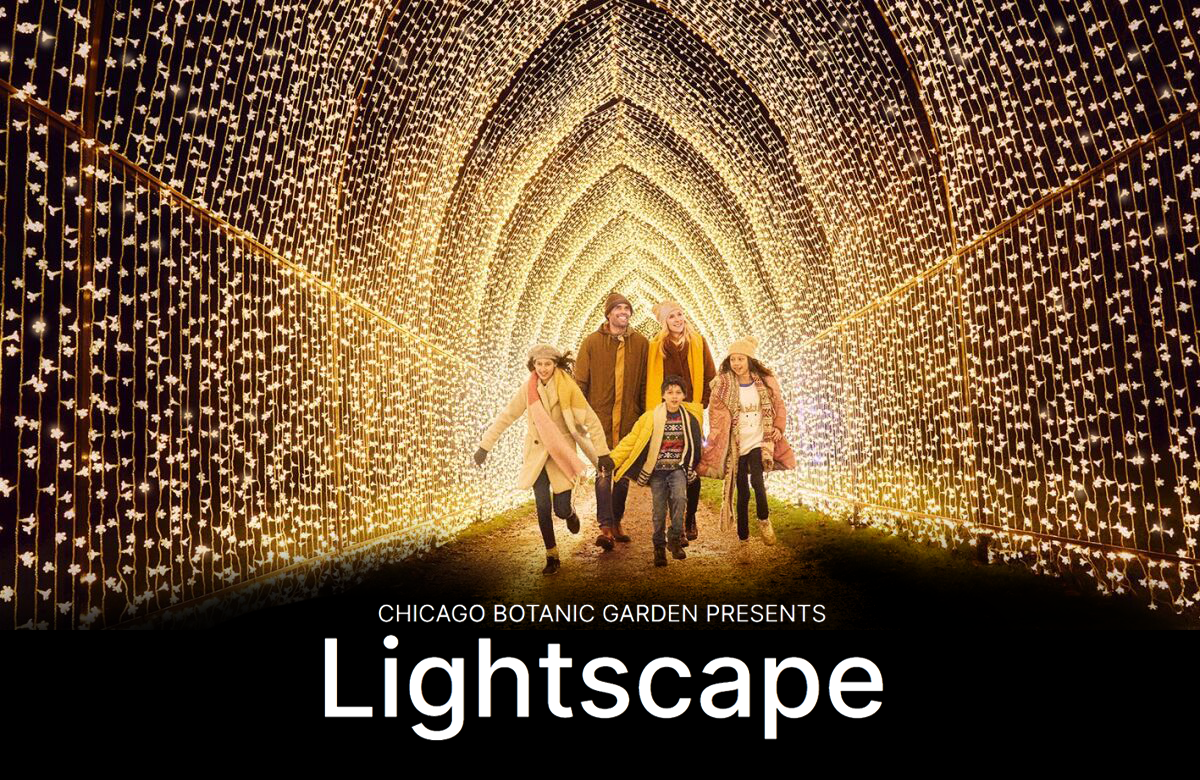
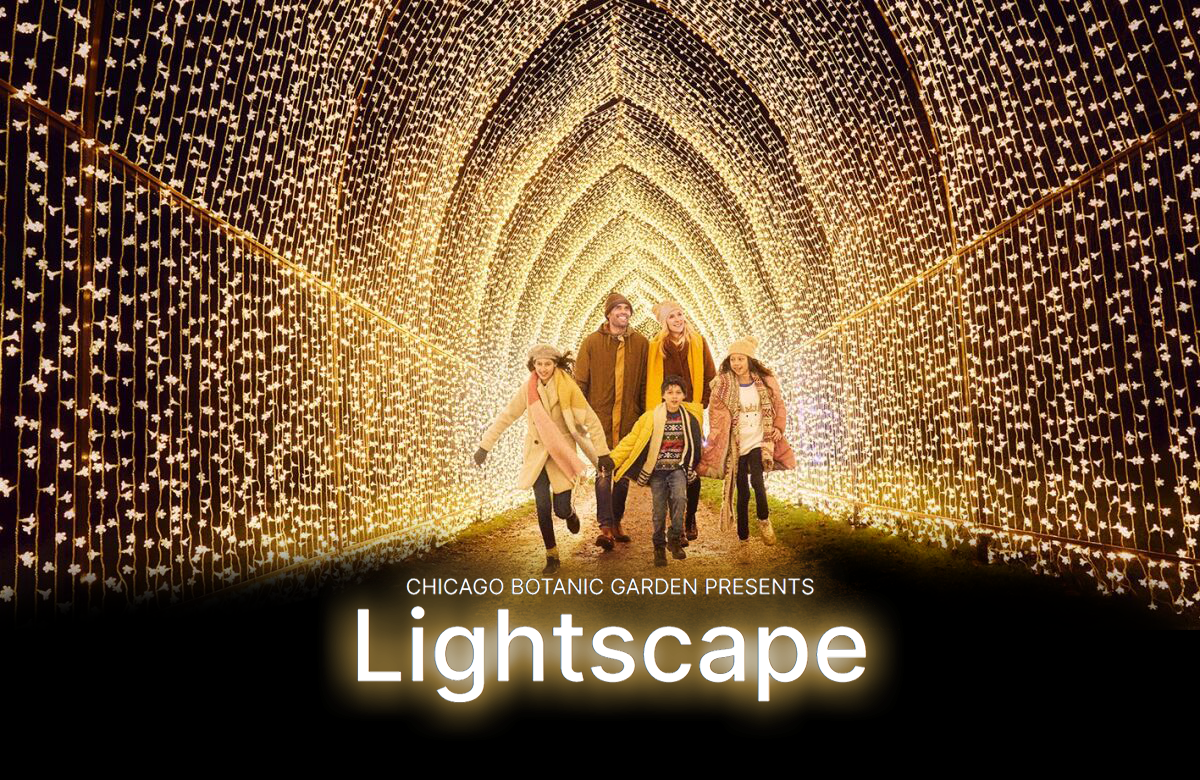
desktop layout done

diff --git a/index.css b/index.css
@@ -5,6 +5,7 @@ body{
     margin: 0 auto 0 auto;
     background-color: black;
     color: white;
+    overflow-x: hidden;
 }
 
 h1 {
@@ -50,6 +51,8 @@ h5 {
 .header-img {
     width: 100%;
     position: relative;
+    height:100vh;
+    object-fit: cover;
 }
 
 .header-glow {
@@ -58,9 +61,12 @@ h5 {
     -o-transition: opacity 1s ease-in-out;
     transition: opacity 1s ease-in-out;
     width: 100%;
+    height:100vh;
+    object-fit: cover;
     position: absolute;
     top: 0;
     left: 0;
+    z-index: 0;
 }
 
 #hglow1 {
@@ -81,17 +87,21 @@ h5 {
     
 }
 
+.arch {
+  margin-bottom: 200px;
+}
+
 .grid-images {
     display: grid;
-    margin: 80px auto 0 auto;
+    padding: 200px auto 200px auto;
     justify-content: center;
     justify-items: center;
     column-gap: 0;
 }
 
 .spotlight-image {
-    width: 350px;
-    height: 200px;
+    width: 400px;
+    height: 220px;
     object-fit: cover;
     padding: 10px;
 }
@@ -223,7 +233,7 @@ h5 {
   animation-name: FadeInOut;
   animation-timing-function: ease-in-out;
   animation-iteration-count: infinite;
-  animation-duration: 4s;
+  animation-duration: 3s;
   animation-direction: alternate;
   }
 
@@ -239,7 +249,7 @@ h5 {
     animation-name: FadeInOut;
     animation-timing-function: ease-in-out;
     animation-iteration-count: infinite;
-    animation-duration: 3s;
+    animation-duration: 2.5s;
     animation-direction: alternate;
 }
 
@@ -299,8 +309,119 @@ h5 {
   }
 
   .description {
-    padding: 0 120px 0 120px;
+    padding: 0 11%  11%;
     text-align: center;
+    position: relative;
+  }
+
+  .description p {
+    position: relative;
+    z-index: 20;
+    font-size: 80%;
+  }
+
+  .description img {
+    width: 100%;
+    position: absolute;
+    top: 300px;
+    left: 0;
+    z-index: -1;
+  }
+
+  #blackout1 {
+    animation-name: FadeInOut;
+    animation-timing-function: ease-in-out;
+    animation-iteration-count: infinite;
+    animation-duration: 1s;
+    animation-direction: alternate;
+  }
+
+  #blackout2 {
+    animation-name: FadeOutIn;
+    animation-timing-function: ease-in-out;
+    animation-iteration-count: infinite;
+    animation-duration: 1.2s;
+    animation-direction: alternate;
+  }
+
+  .neon {
+    position: relative;
+    margin-top: 300px;
+  }
+
+  .line{
+    margin: 30px;
+    border: solid;
+    border-color: rgb(255, 255, 255);
+    border-radius: 2em;
+    height: 105vw;
+    width: 0;
+    top: -1200px;
+    left: -5%;
+    box-shadow: 0 0 .2rem rgb(255, 215, 154),
+            0 0 .2rem #fff,
+            0 0 2rem #ffae6c,
+            0 0 0.8rem #ffab3d,
+            0 0 2.8rem #ffb348,
+            inset 0 0 1.3rem #ffd37a;
+  }
+
+  
+  .line2{
+    margin: 30px;
+    border: solid;
+    border-color: rgb(255, 255, 255);
+    border-radius: 2em;
+    height: 105vw;
+    width: 0;
+    top: -1650px;
+    left: 100%;
+    box-shadow: 0 0 .2rem rgb(255, 215, 154),
+            0 0 .2rem #fff,
+            0 0 2rem #ffea8d,
+            0 0 0.8rem #ffc06f,
+            0 0 2.8rem #ffcf8b,
+            inset 0 0 1.3rem #ffd37a;
+  }
+
+  #line1 {
+    rotate: 92deg;
+    position: absolute;
+    transform-origin: bottom left;
+  }
+
+  #line2 {
+    rotate: 95deg;
+    position: absolute;
+    transform-origin: bottom left;
+  }
+
+  #line3 {
+    rotate: 99deg;
+    position: absolute;
+    transform-origin: bottom left;
+  }
+
+  #line4 {
+    rotate: 272deg;
+    position: absolute;
+    transform-origin: bottom left;
+  }
+
+  #line5 {
+    rotate: 275deg;
+    position: absolute;
+    transform-origin: bottom left;
+  }
+
+  #line6 {
+    rotate: 279deg;
+    position: absolute;
+    transform-origin: bottom left;
+  }
+
+  .description {
+    margin-top: 200px;
   }
 
   .description h2 {
@@ -329,8 +450,8 @@ h5 {
   }
 
   h2 span {
-    color: white;
-    text-shadow: 0 0 10px #fff, 0 0 20px rgb(164, 161, 255), 0 0 30px #e66b00, 0 0 40px #ff9822, 0 0 50px #ffb61a, 0 0 60px #ff9b18;
+    color: rgb(255, 255, 255);
+    text-shadow: 0 0 10px rgb(255, 244, 219), 0 0 8px rgb(164, 161, 255), 0 0 30px #e66b00, 0 0 40px #ff9822, 0 0 50px #ffb61a, 0 0 60px #ff9b18;
   }
 
   .description p {

diff --git a/index.html b/index.html
@@ -18,6 +18,18 @@
         <h1>Lightscape</h1>
     </div> -->
 
+    <div class="neon">
+        <div class="line" id="line1"></div>
+        <div class="line" id="line2"></div>
+        <div class="line" id="line3"></div>
+
+    </div>
+    <div class="neon">
+        <div class="line2" id="line4"></div>
+        <div class="line2" id="line5"></div>
+        <div class="line2" id="line6"></div>
+
+    </div>
     <div class="grid-images">
         <div class="first-item">
             <img src="./images/fireglow-v2.png" class="spotlight-image">
@@ -34,11 +46,14 @@
     </div>
 
     <div class="description">
+        <img src="images/scattered-lights-v2.png">
+        <img src="images/scatter-black-1.png" id="blackout1">
+        <img src="images/scatter-black-2.png" id="blackout2">
         <h2>Making Spirits <span>Bright</span></h2>
         <p>Our acclaimed holiday event returns <strong>November 11, 2022 to January 8, 2023</strong> with a new path and new light-filled 
             installations created just for the Chicago Botanic Garden. Explore the whimsy 
-            of nature in winter through music, light, fire, and color. Featured artistic w
-            orks will include favorites such as the luminous Winter Cathedral and a reimagined 
+            of nature in winter through music, light, fire, and color. Featured artistic works will 
+            include favorites such as the luminous Winter Cathedral and a reimagined 
             fire garden. Celebrate outside with friends and family at Lightscape, the brightest 
             spot for holiday cheer.</p>
         <button>Buy Tickets</button>    
